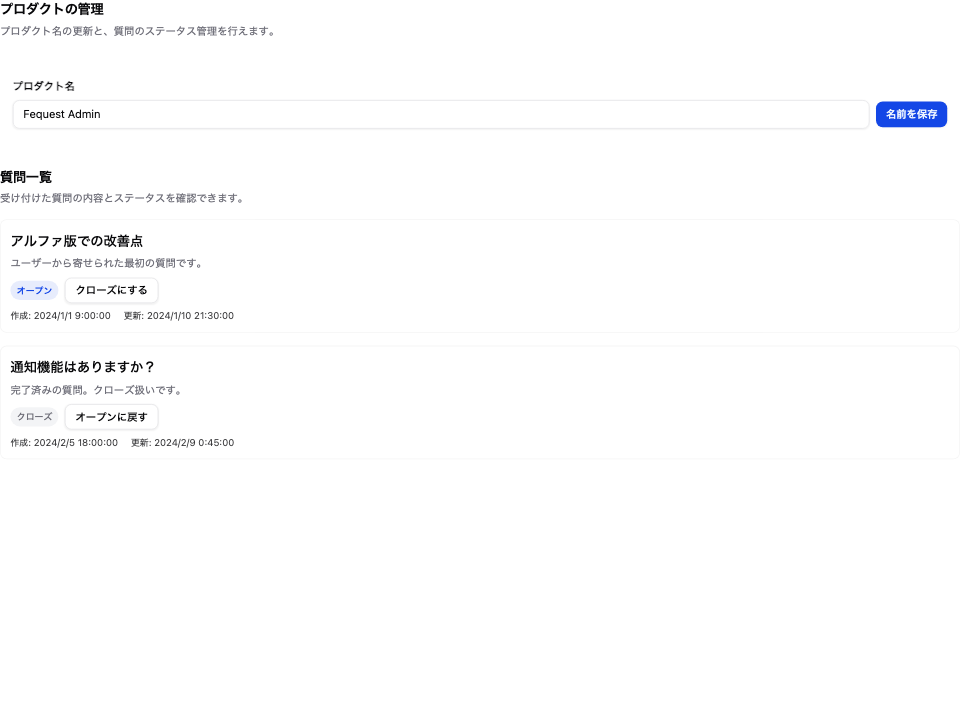
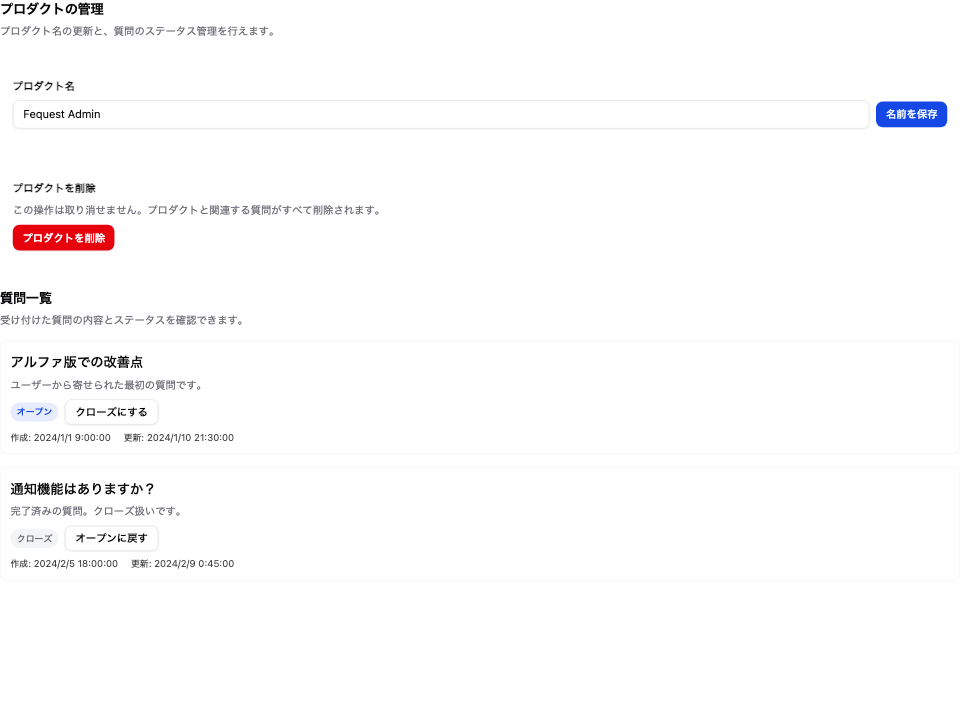
feat: add product deletion functionality with tests and UI integration

Changed region(s): [[0.0, 0.2139, 0.375, 0.4583], [0.0, 0.4889, 0.25, 0.6417], [0.0, 0.6722, 0.25, 0.7944]]

diff --git a/apps/admin/src/app/products/[id]/delete-product.spec.ts b/apps/admin/src/app/products/[id]/delete-product.spec.ts
@@ -1,0 +1,73 @@
+import { afterEach, describe, expect, it, vi } from "vitest";
+
+const mocks = vi.hoisted(() => ({
+  delete: vi.fn(),
+  redirect: vi.fn(),
+  revalidatePath: vi.fn(),
+}));
+
+vi.mock("~/trpc/server", () => ({
+  api: {
+    product: {
+      delete: mocks.delete,
+    },
+  },
+}));
+
+vi.mock("next/cache", () => ({
+  revalidatePath: mocks.revalidatePath,
+}));
+
+vi.mock("next/navigation", () => ({
+  redirect: mocks.redirect,
+}));
+
+import { createDeleteProduct } from "./delete-product";
+
+const createFormData = (fields: Record<string, number | string>) => {
+  const formData = new FormData();
+  Object.entries(fields).forEach(([key, value]) =>
+    formData.set(key, value.toString()),
+  );
+  return formData;
+};
+
+afterEach(() => {
+  vi.clearAllMocks();
+  mocks.delete.mockReset();
+  mocks.revalidatePath.mockReset();
+  mocks.redirect.mockReset();
+});
+
+describe("createDeleteProduct", () => {
+  it("deletes the product, revalidates, and redirects", async () => {
+    const action = createDeleteProduct({ productId: 9 });
+
+    await action(createFormData({ productId: 9 }));
+
+    expect(mocks.delete).toHaveBeenCalledWith({ id: 9 });
+    expect(mocks.revalidatePath).toHaveBeenCalledWith("/");
+    expect(mocks.redirect).toHaveBeenCalledWith("/");
+  });
+
+  it("bails when the product id does not match", async () => {
+    const action = createDeleteProduct({ productId: 2 });
+
+    await action(createFormData({ productId: 3 }));
+
+    expect(mocks.delete).not.toHaveBeenCalled();
+    expect(mocks.revalidatePath).not.toHaveBeenCalled();
+    expect(mocks.redirect).not.toHaveBeenCalled();
+  });
+
+  it("does not redirect when delete fails", async () => {
+    mocks.delete.mockRejectedValueOnce(new Error("fail"));
+    const action = createDeleteProduct({ productId: 5 });
+
+    await action(createFormData({ productId: 5 }));
+
+    expect(mocks.delete).toHaveBeenCalled();
+    expect(mocks.revalidatePath).not.toHaveBeenCalled();
+    expect(mocks.redirect).not.toHaveBeenCalled();
+  });
+});

diff --git a/packages/admin-feature-product/src/product.spec.tsx b/packages/admin-feature-product/src/product.spec.tsx
@@ -8,6 +8,7 @@ describe("Product", () => {
   it("shows rename form with the current product name", async () => {
     await render(
       <Product
+        onDelete={async () => {}}
         onUpdateFeatureStatus={async () => {}}
         onUpdateName={async () => {}}
         product={{ featureRequests: [], id: 1, name: "Fequest" }}
@@ -27,6 +28,7 @@ describe("Product", () => {
   it("renders feature requests with status toggles", async () => {
     await render(
       <Product
+        onDelete={async () => {}}
         onUpdateFeatureStatus={async () => {}}
         onUpdateName={async () => {}}
         product={{
@@ -72,6 +74,7 @@ describe("Product", () => {
   it("shows empty state when there are no feature requests", async () => {
     await render(
       <Product
+        onDelete={async () => {}}
         onUpdateFeatureStatus={async () => {}}
         onUpdateName={async () => {}}
         product={{ featureRequests: [], id: 3, name: "Empty Product" }}
@@ -80,5 +83,33 @@ describe("Product", () => {
 
     const html = document.body.textContent ?? "";
     expect(html).toContain("まだ質問がありません。");
+  });
+
+  it("renders a destructive delete action with the product id", async () => {
+    await render(
+      <Product
+        onDelete={async () => {}}
+        onUpdateFeatureStatus={async () => {}}
+        onUpdateName={async () => {}}
+        product={{ featureRequests: [], id: 7, name: "Deletable" }}
+      />,
+    );
+
+    const deleteForm = document.querySelector<HTMLFormElement>(
+      'form[data-slot="delete-form"]',
+    );
+    expect(deleteForm?.textContent ?? "").toContain("プロダクトを削除");
+
+    const hiddenId = deleteForm?.querySelector<HTMLInputElement>(
+      'input[name="productId"]',
+    );
+    expect(hiddenId?.value).toBe("7");
+
+    const button = deleteForm?.querySelector<HTMLButtonElement>(
+      'button[type="submit"]',
+    );
+    expect(button?.getAttribute("data-variant") ?? button?.className).toContain(
+      "destructive",
+    );
   });
 });

diff --git a/packages/admin-feature-product/src/product.tsx b/packages/admin-feature-product/src/product.tsx
@@ -26,6 +26,7 @@ type ProductDetail = {
 };
 
 type Props = {
+  onDelete: (formData: FormData) => Promise<void>;
   onUpdateFeatureStatus: (formData: FormData) => Promise<void>;
   onUpdateName: (formData: FormData) => Promise<void>;
   product: ProductDetail;
@@ -58,6 +59,7 @@ const formatDateTime = (value?: Date | null | string) => {
 };
 
 export const Product = ({
+  onDelete,
   onUpdateFeatureStatus,
   onUpdateName,
   product,
@@ -98,6 +100,27 @@ export const Product = ({
                 名前を保存
               </Button>
             </HStack>
+          </form>
+        </VStack>
+      </Box>
+
+      <Box bg="card" p="lg" radius="lg" w="full">
+        <VStack align="start" gap="sm" w="full">
+          <Text size="sm" weight="semibold">
+            プロダクトを削除
+          </Text>
+          <Text color="muted" size="sm">
+            この操作は取り消せません。プロダクトと関連する質問がすべて削除されます。
+          </Text>
+          <form
+            action={onDelete}
+            data-slot="delete-form"
+            style={{ width: "100%" }}
+          >
+            <input name="productId" type="hidden" value={product.id} />
+            <Button size="sm" type="submit" variant="destructive">
+              プロダクトを削除
+            </Button>
           </form>
         </VStack>
       </Box>

diff --git a/apps/admin/src/server/api/product.ts b/apps/admin/src/server/api/product.ts
@@ -41,6 +41,10 @@ const setFeatureStatusInputSchema = object({
   status: picklist(featureRequestStatuses),
 });
 
+const deleteInputSchema = object({
+  id: number(),
+});
+
 export const productRouter = createTRPCRouter({
   byId: protectedProcedure
     .input(productIdSchema)
@@ -97,6 +101,37 @@ export const productRouter = createTRPCRouter({
       }
 
       return product;
+    }),
+
+  delete: protectedProcedure
+    .input(deleteInputSchema)
+    .mutation(async ({ ctx, input }) => {
+      const product = await ctx.db.query.products.findFirst({
+        columns: {
+          id: true,
+        },
+        where: (product, { and, eq }) =>
+          and(
+            eq(product.id, input.id),
+            eq(product.userId, ctx.session.user.id),
+          ),
+      });
+
+      if (!product) {
+        throw new TRPCError({
+          code: "NOT_FOUND",
+          message: "Product not found",
+        });
+      }
+
+      await ctx.db.transaction(async (tx) => {
+        await tx
+          .delete(featureRequests)
+          .where(eq(featureRequests.productId, input.id));
+        await tx.delete(products).where(eq(products.id, input.id));
+      });
+
+      return { id: input.id };
     }),
 
   list: protectedProcedure.query(async ({ ctx }) => {

diff --git a/apps/admin/src/app/products/[id]/page.tsx b/apps/admin/src/app/products/[id]/page.tsx
@@ -6,6 +6,7 @@ import { object, safeParse } from "valibot";
 import { auth } from "~/server/auth";
 import { api } from "~/trpc/server";
 
+import { createDeleteProduct } from "./delete-product";
 import { createRenameProduct } from "./rename-product";
 import { createUpdateFeatureStatus } from "./update-feature-status";
 
@@ -30,11 +31,13 @@ export default async function Page({ params }: PageProps<"/products/[id]">) {
     notFound();
   }
 
+  const deleteProduct = createDeleteProduct({ productId });
   const renameProduct = createRenameProduct({ productId });
   const updateFeatureStatus = createUpdateFeatureStatus({ productId });
 
   return (
     <Product
+      onDelete={deleteProduct}
       onUpdateFeatureStatus={updateFeatureStatus}
       onUpdateName={renameProduct}
       product={product}

diff --git a/apps/admin/src/app/products/[id]/delete-product.ts b/apps/admin/src/app/products/[id]/delete-product.ts
@@ -1,0 +1,31 @@
+import { revalidatePath } from "next/cache";
+import { redirect } from "next/navigation";
+
+import { api } from "~/trpc/server";
+
+type DeleteProductOptions = {
+  productId: number;
+};
+
+export const createDeleteProduct = ({ productId }: DeleteProductOptions) => {
+  return async (formData: FormData) => {
+    "use server";
+
+    const targetId = Number(formData.get("productId"));
+    if (Number.isNaN(targetId) || targetId !== productId) {
+      return;
+    }
+
+    try {
+      await api.product.delete({ id: targetId });
+    } catch (error) {
+      console.error("Failed to delete product", error);
+      return;
+    }
+
+    revalidatePath("/");
+    redirect("/");
+  };
+};
+
+export type DeleteProduct = ReturnType<typeof createDeleteProduct>;

diff --git a/packages/admin-feature-product/src/product.stories.tsx b/packages/admin-feature-product/src/product.stories.tsx
@@ -4,6 +4,7 @@ import { Product } from "./product";
 
 const meta = {
   args: {
+    onDelete: async () => {},
     onUpdateFeatureStatus: async () => {},
     onUpdateName: async () => {},
     product: {
@@ -40,6 +41,7 @@ export const Default: Story = {};
 
 export const EmptyFeatures: Story = {
   args: {
+    onDelete: async () => {},
     product: { featureRequests: [], id: 1, name: "Empty Product" },
   },
 };
